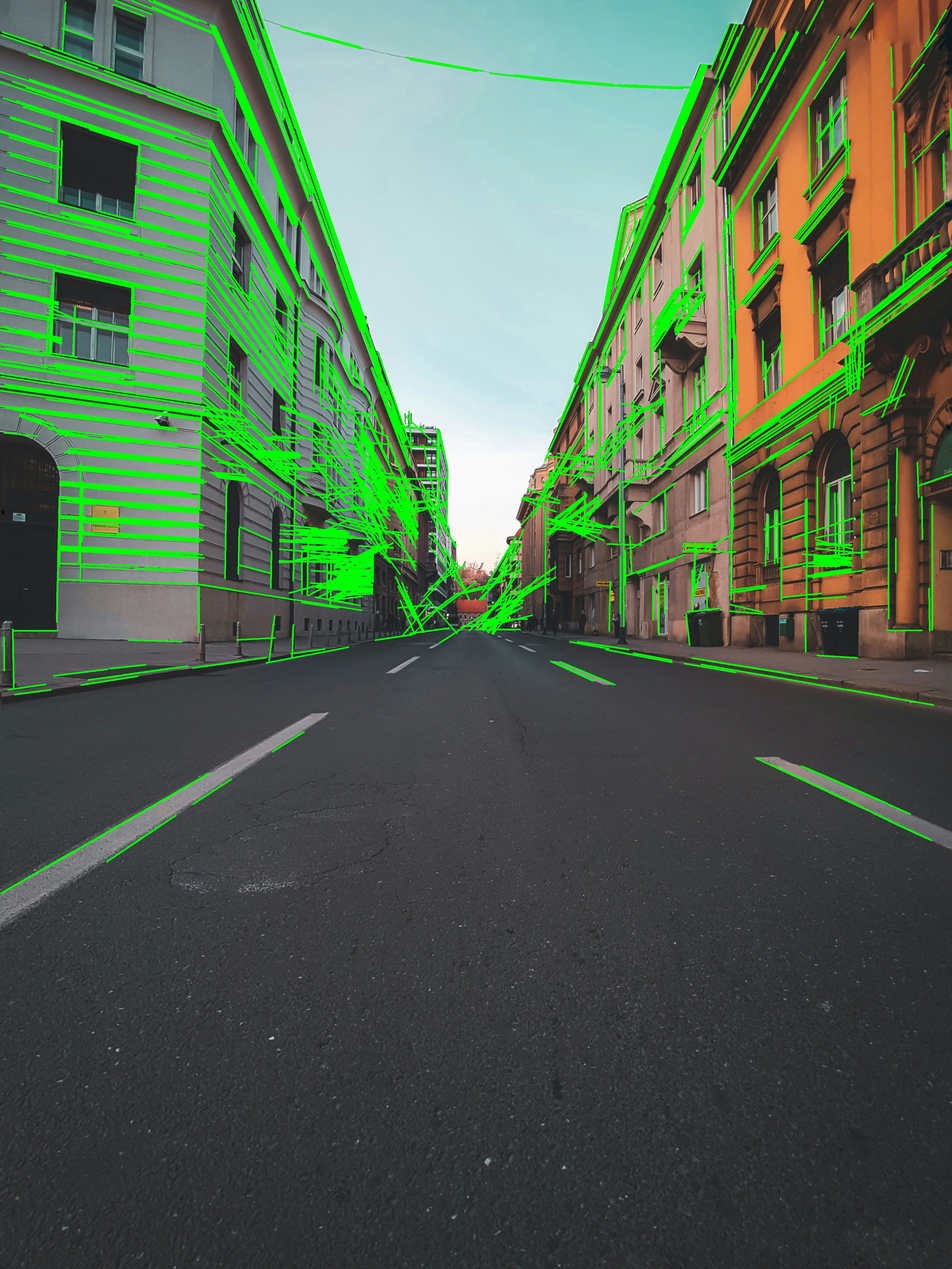
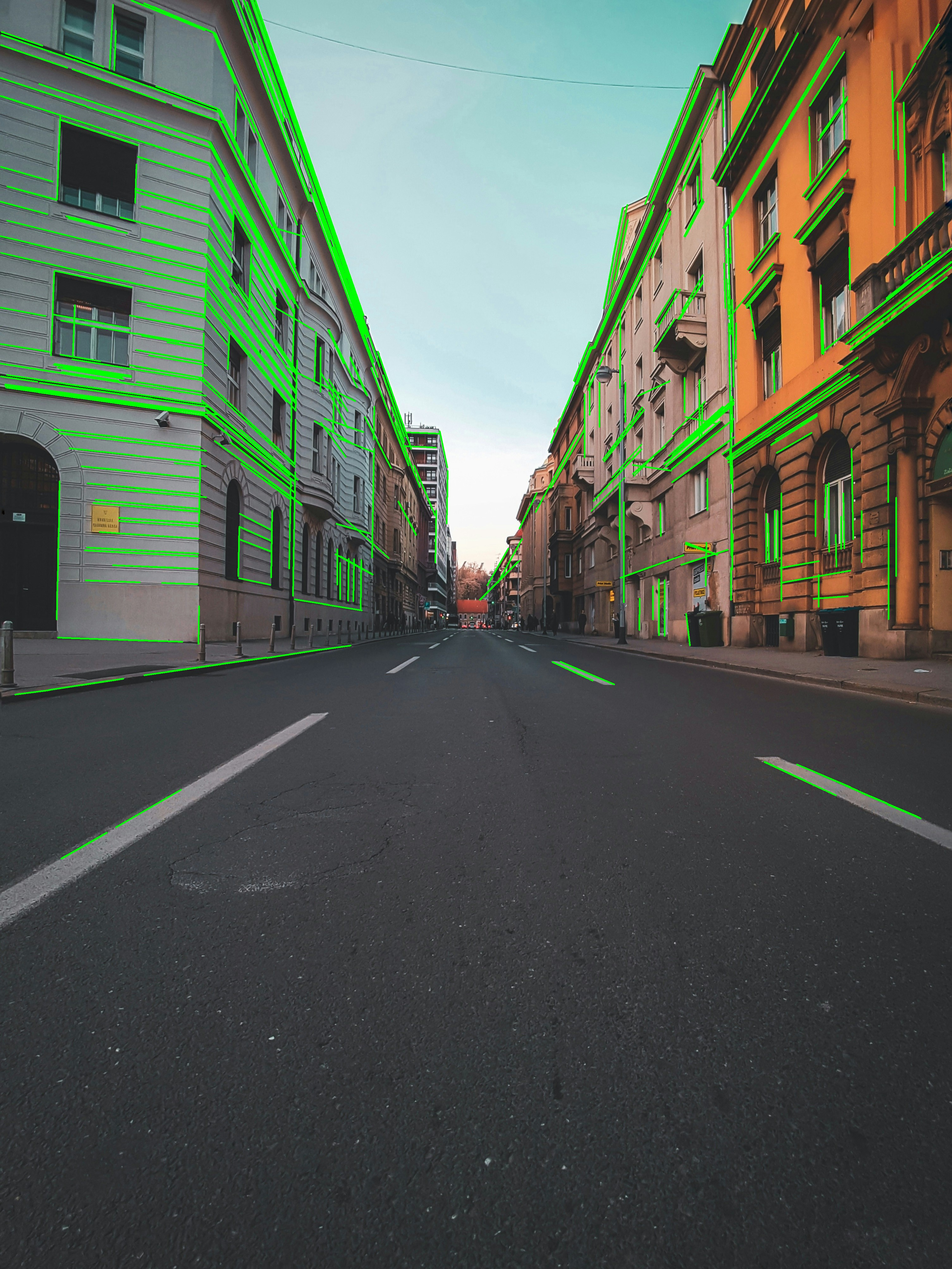
Add files via upload

diff --git a/400study.py b/400study.py
@@ -1,0 +1,93 @@
+#!/usr/bin/env python
+# coding: utf-8
+
+# In[4]:
+
+
+import cv2
+import numpy as np
+import argparse
+
+def resize_image_for_display(image, screen_width_inches=9.8):
+    
+    screen_width_pixels = int(screen_width_inches * 157) 
+    if image.shape[1] > screen_width_pixels:
+        scale_percent = screen_width_pixels / image.shape[1]
+        width = int(image.shape[1] * scale_percent)
+        height = int(image.shape[0] * scale_percent)
+        dim = (width, height)
+        resized = cv2.resize(image, dim, interpolation=cv2.INTER_AREA)
+        return resized
+    else:
+        return image
+
+def process_street_image_optimized(image_path, clip_limit, gauss_kernel_size, canny_threshold1, canny_threshold2):
+    image = cv2.imread(image_path)
+    
+    image = cv2.imread(image_path)
+    
+    # Convert image to grayscale
+    gray = cv2.cvtColor(image, cv2.COLOR_BGR2GRAY)
+
+    # Apply adaptive histogram equalization to improve contrast
+    clahe = cv2.createCLAHE(clipLimit=2.0, tileGridSize=(8, 8))
+    equalized = clahe.apply(gray)
+    
+    # Resize for display
+    resized_gray = resize_image_for_display(gray)
+    resized_equalized = resize_image_for_display(equalized)
+    
+    # Show the original grayscale and equalized images for comparison
+    cv2.imshow('Original Grayscale Image', gray)
+    cv2.imshow('CLAHE Image', equalized)
+    cv2.waitKey(0)
+    cv2.destroyAllWindows()
+
+    # Apply Gaussian blur to smooth out noise
+    blurred = cv2.GaussianBlur(equalized, (gauss_kernel_size, gauss_kernel_size), 0)
+
+    # Canny edge detection with adjusted thresholds to decrease noise
+    edges = cv2.Canny(blurred, canny_threshold1, canny_threshold2)
+
+    # Hough lines detection with parameters adjusted to filter out short lines
+    lines = cv2.HoughLinesP(edges, 1, np.pi / 180, threshold=50, minLineLength=100, maxLineGap=20)
+
+    # Drawing the new lines on the original image
+    line_image = np.copy(image)
+    if lines is not None:
+        for line in lines:
+            for x1, y1, x2, y2 in line:
+                cv2.line(line_image, (x1, y1), (x2, y2), (0, 255, 0), 3)
+
+    # Save the image with lines drawn on it
+    result_path = image_path.replace('.jpg', '_optimized.jpg')
+    cv2.imwrite(result_path, line_image)
+
+    return result_path
+
+
+# Parse command line arguments
+parser = argparse.ArgumentParser(description='Street image processing with adjustable parameters.')
+parser.add_argument('image_path', help='Path to the input image')
+parser.add_argument('--clip_limit', type=float, default=2.0, help='Clip limit for CLAHE')
+parser.add_argument('--gauss_kernel_size', type=int, default=9, help='Size of the Gaussian kernel')
+parser.add_argument('--canny_threshold1', type=int, default=50, help='First threshold for Canny edge detection')
+parser.add_argument('--canny_threshold2', type=int, default=150, help='Second threshold for Canny edge detection')
+args = parser.parse_args()
+
+# Call the image processing function with the parsed arguments
+processed_image_path = process_street_image_optimized(
+    args.image_path,
+    args.clip_limit,
+    args.gauss_kernel_size,
+    args.canny_threshold1,
+    args.canny_threshold2
+)
+print(f"Processed image saved at {processed_image_path}")
+
+
+# In[ ]:
+
+
+
+
